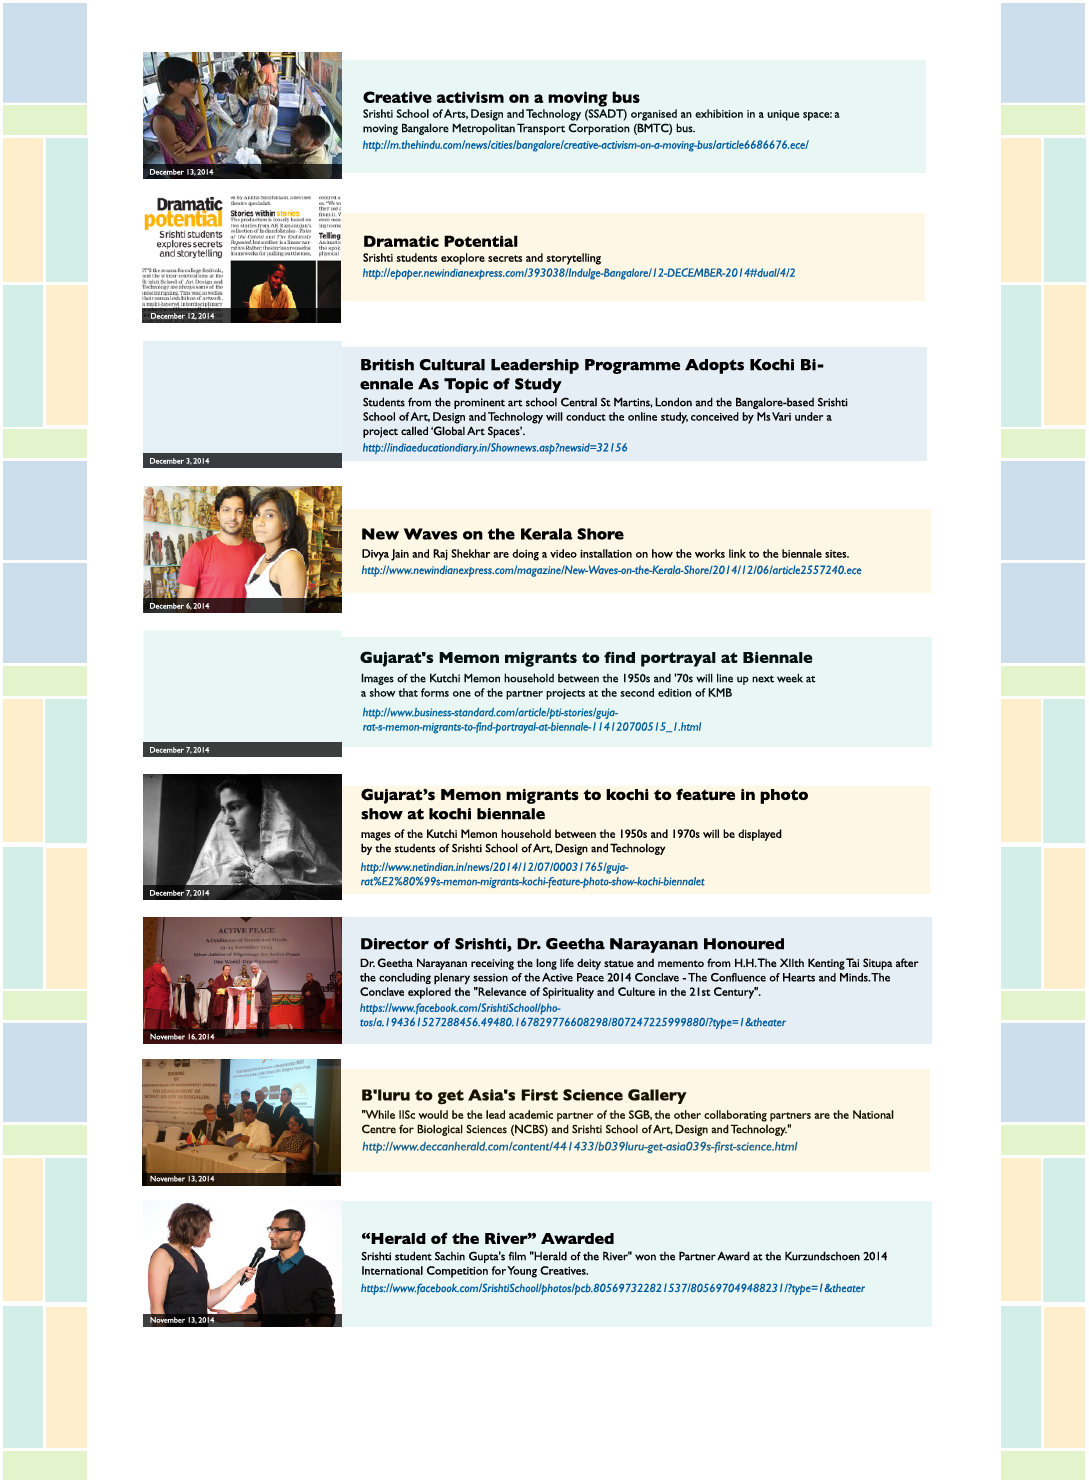
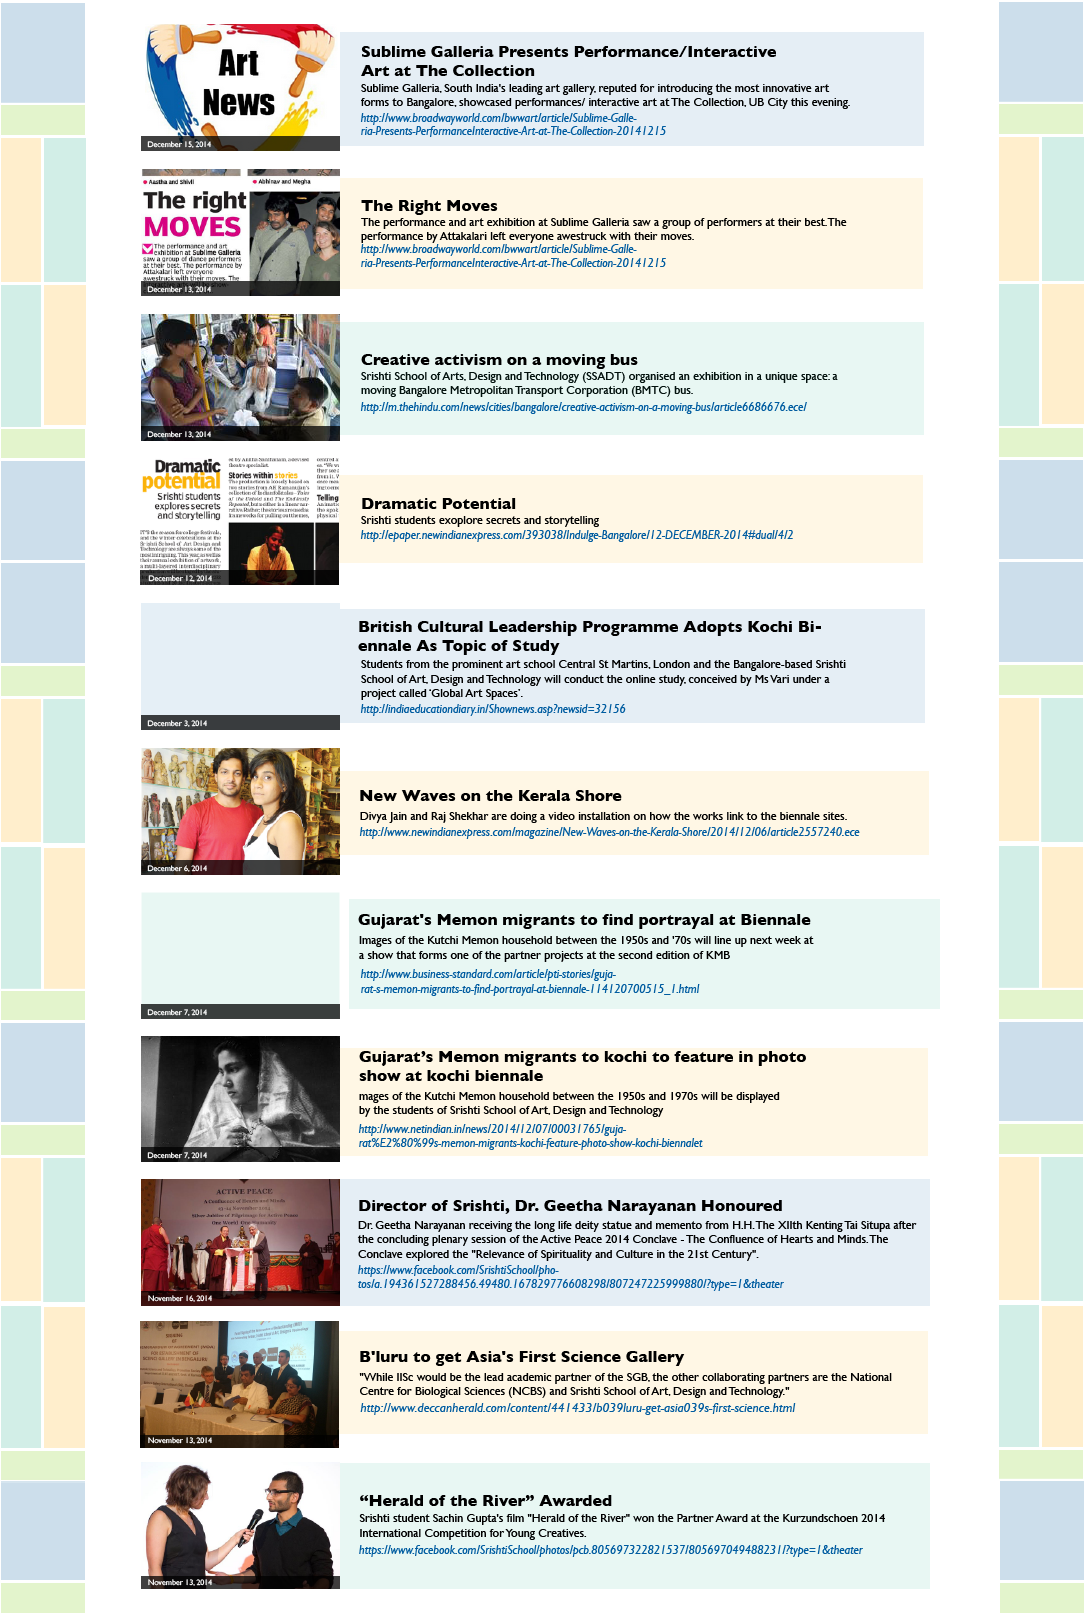
media links updated with 2 new links

diff --git a/medialinks.html b/medialinks.html
@@ -59,23 +59,25 @@
 
 	<div class="container" id="mycontainer">
 
-		<img src="images/medialinks.png" width="1089" height="1483" border="0" usemap="#map" />
+		<img src="images/medialinks.png" width="1086" height="1620" border="0" usemap="#map" />
 
 		<map name="map">
 			<!-- #$-:Image map file created by GIMP Image Map plug-in -->
 			<!-- #$-:GIMP Image Map plug-in by Maurits Rijk -->
 			<!-- #$-:Please do not edit lines starting with "#$" -->
 			<!-- #$VERSION:2.3 -->
-			<!-- #$AUTHOR:Mahidhar  -->
-			<area shape="rect" coords="360,134,809,157" href="http://m.thehindu.com/news/cities/bangalore/creative-activism-on-a-moving-bus/article6686676.ece/" />
-			<area shape="rect" coords="359,264,802,283" href="http://epaper.newindianexpress.com/393038/Indulge-Bangalore/12-DECEMBER-2014#dual/4/2" />
-			<area shape="rect" coords="360,439,626,458" href="http://service.meltwaternews.com/mnews/redirect.html?docId=3747457491&amp;userId=2770313&amp;cId=1530063&amp;agentId=6473293&amp;type=1&amp;s=133286&amp;url=http://indiaeducationdiary.in/Shownews.asp?newsid=32156" />
-			<area shape="rect" coords="359,562,861,583" href="http://www.newindianexpress.com/magazine/New-Waves-on-the-Kerala-Shore/2014/12/06/article2557240.ece" />
-			<area shape="poly" coords="360,700,358,741,704,744,703,720,621,719,621,702" href="http://www.business-standard/article/pti-stories/gujarat-s-memon-migrants-to-find-portrayal-at-biennale-114120700515_1.html" />
-			<area shape="poly" coords="356,855,355,897,705,898,704,875,631,875,631,857" href="http://www.netindian.in/news/2014/12/07/00031765/gujarat%E2%80%99s-memon-migrants-kochi-feature-photo-show-kochi-biennale" />
-			<area shape="poly" coords="356,997,356,1037,786,1040,785,1017,559,1014,559,998" href="https://www.facebook.com/SrishtiSchool/photos/a.194361527288456.49480.167829776608298/807247225999880/?type=1&amp;theater" />
-			<area shape="rect" coords="359,1137,796,1159" href="http://www.deccanherald.com/content/441433/b039luru-get-asia039s-first-science.html" />
-			<area shape="rect" coords="356,1278,864,1302" href="https://www.facebook.com/SrishtiSchool/photos/pcb.805697322821537/805697049488231/?type=1&amp;theater" />
+			<!-- #$AUTHOR:Mahidhar   -->
+			<area shape="rect" coords="359,110,671,139" href="http://www.broadwayworld.com/bwwart/article/Sublime-Galleria-Presents-PerformanceInteractive-Art-at-The-Collection-20141215" />
+			<area shape="rect" coords="359,242,671,271" href="http://www.broadwayworld.com/bwwart/article/Sublime-Galleria-Presents-PerformanceInteractive-Art-at-The-Collection-20141215" />
+			<area shape="rect" coords="360,398,809,421" href="http://m.thehindu.com/news/cities/bangalore/creative-activism-on-a-moving-bus/article6686676.ece/" />
+			<area shape="rect" coords="359,525,802,544" href="http://epaper.newindianexpress.com/393038/Indulge-Bangalore/12-DECEMBER-2014#dual/4/2" />
+			<area shape="rect" coords="360,700,626,719" href="http://service.meltwaternews.com/mnews/redirect.html?docId=3747457491&amp;userId=2770313&amp;cId=1530063&amp;agentId=6473293&amp;type=1&amp;s=133286&amp;url=http://indiaeducationdiary.in/Shownews.asp?newsid=32156" />
+			<area shape="rect" coords="359,822,861,843" href="http://www.newindianexpress.com/magazine/New-Waves-on-the-Kerala-Shore/2014/12/06/article2557240.ece" />
+			<area shape="poly" coords="360,960,358,1001,704,1004,703,980,621,979,621,962" href="http://www.business-standard/article/pti-stories/gujarat-s-memon-migrants-to-find-portrayal-at-biennale-114120700515_1.html" />
+			<area shape="poly" coords="356,1115,355,1157,705,1158,704,1135,631,1135,631,1117" href="http://www.netindian.in/news/2014/12/07/00031765/gujarat%E2%80%99s-memon-migrants-kochi-feature-photo-show-kochi-biennale" />
+			<area shape="poly" coords="356,1257,356,1297,786,1300,785,1277,559,1274,559,1258" href="https://www.facebook.com/SrishtiSchool/photos/a.194361527288456.49480.167829776608298/807247225999880/?type=1&amp;theater" />
+			<area shape="rect" coords="359,1398,796,1420" href="http://www.deccanherald.com/content/441433/b039luru-get-asia039s-first-science.html" />
+			<area shape="rect" coords="356,1538,864,1562" href="https://www.facebook.com/SrishtiSchool/photos/pcb.805697322821537/805697049488231/?type=1&amp;theater" />
 		</map>
 
 		<br><br>
